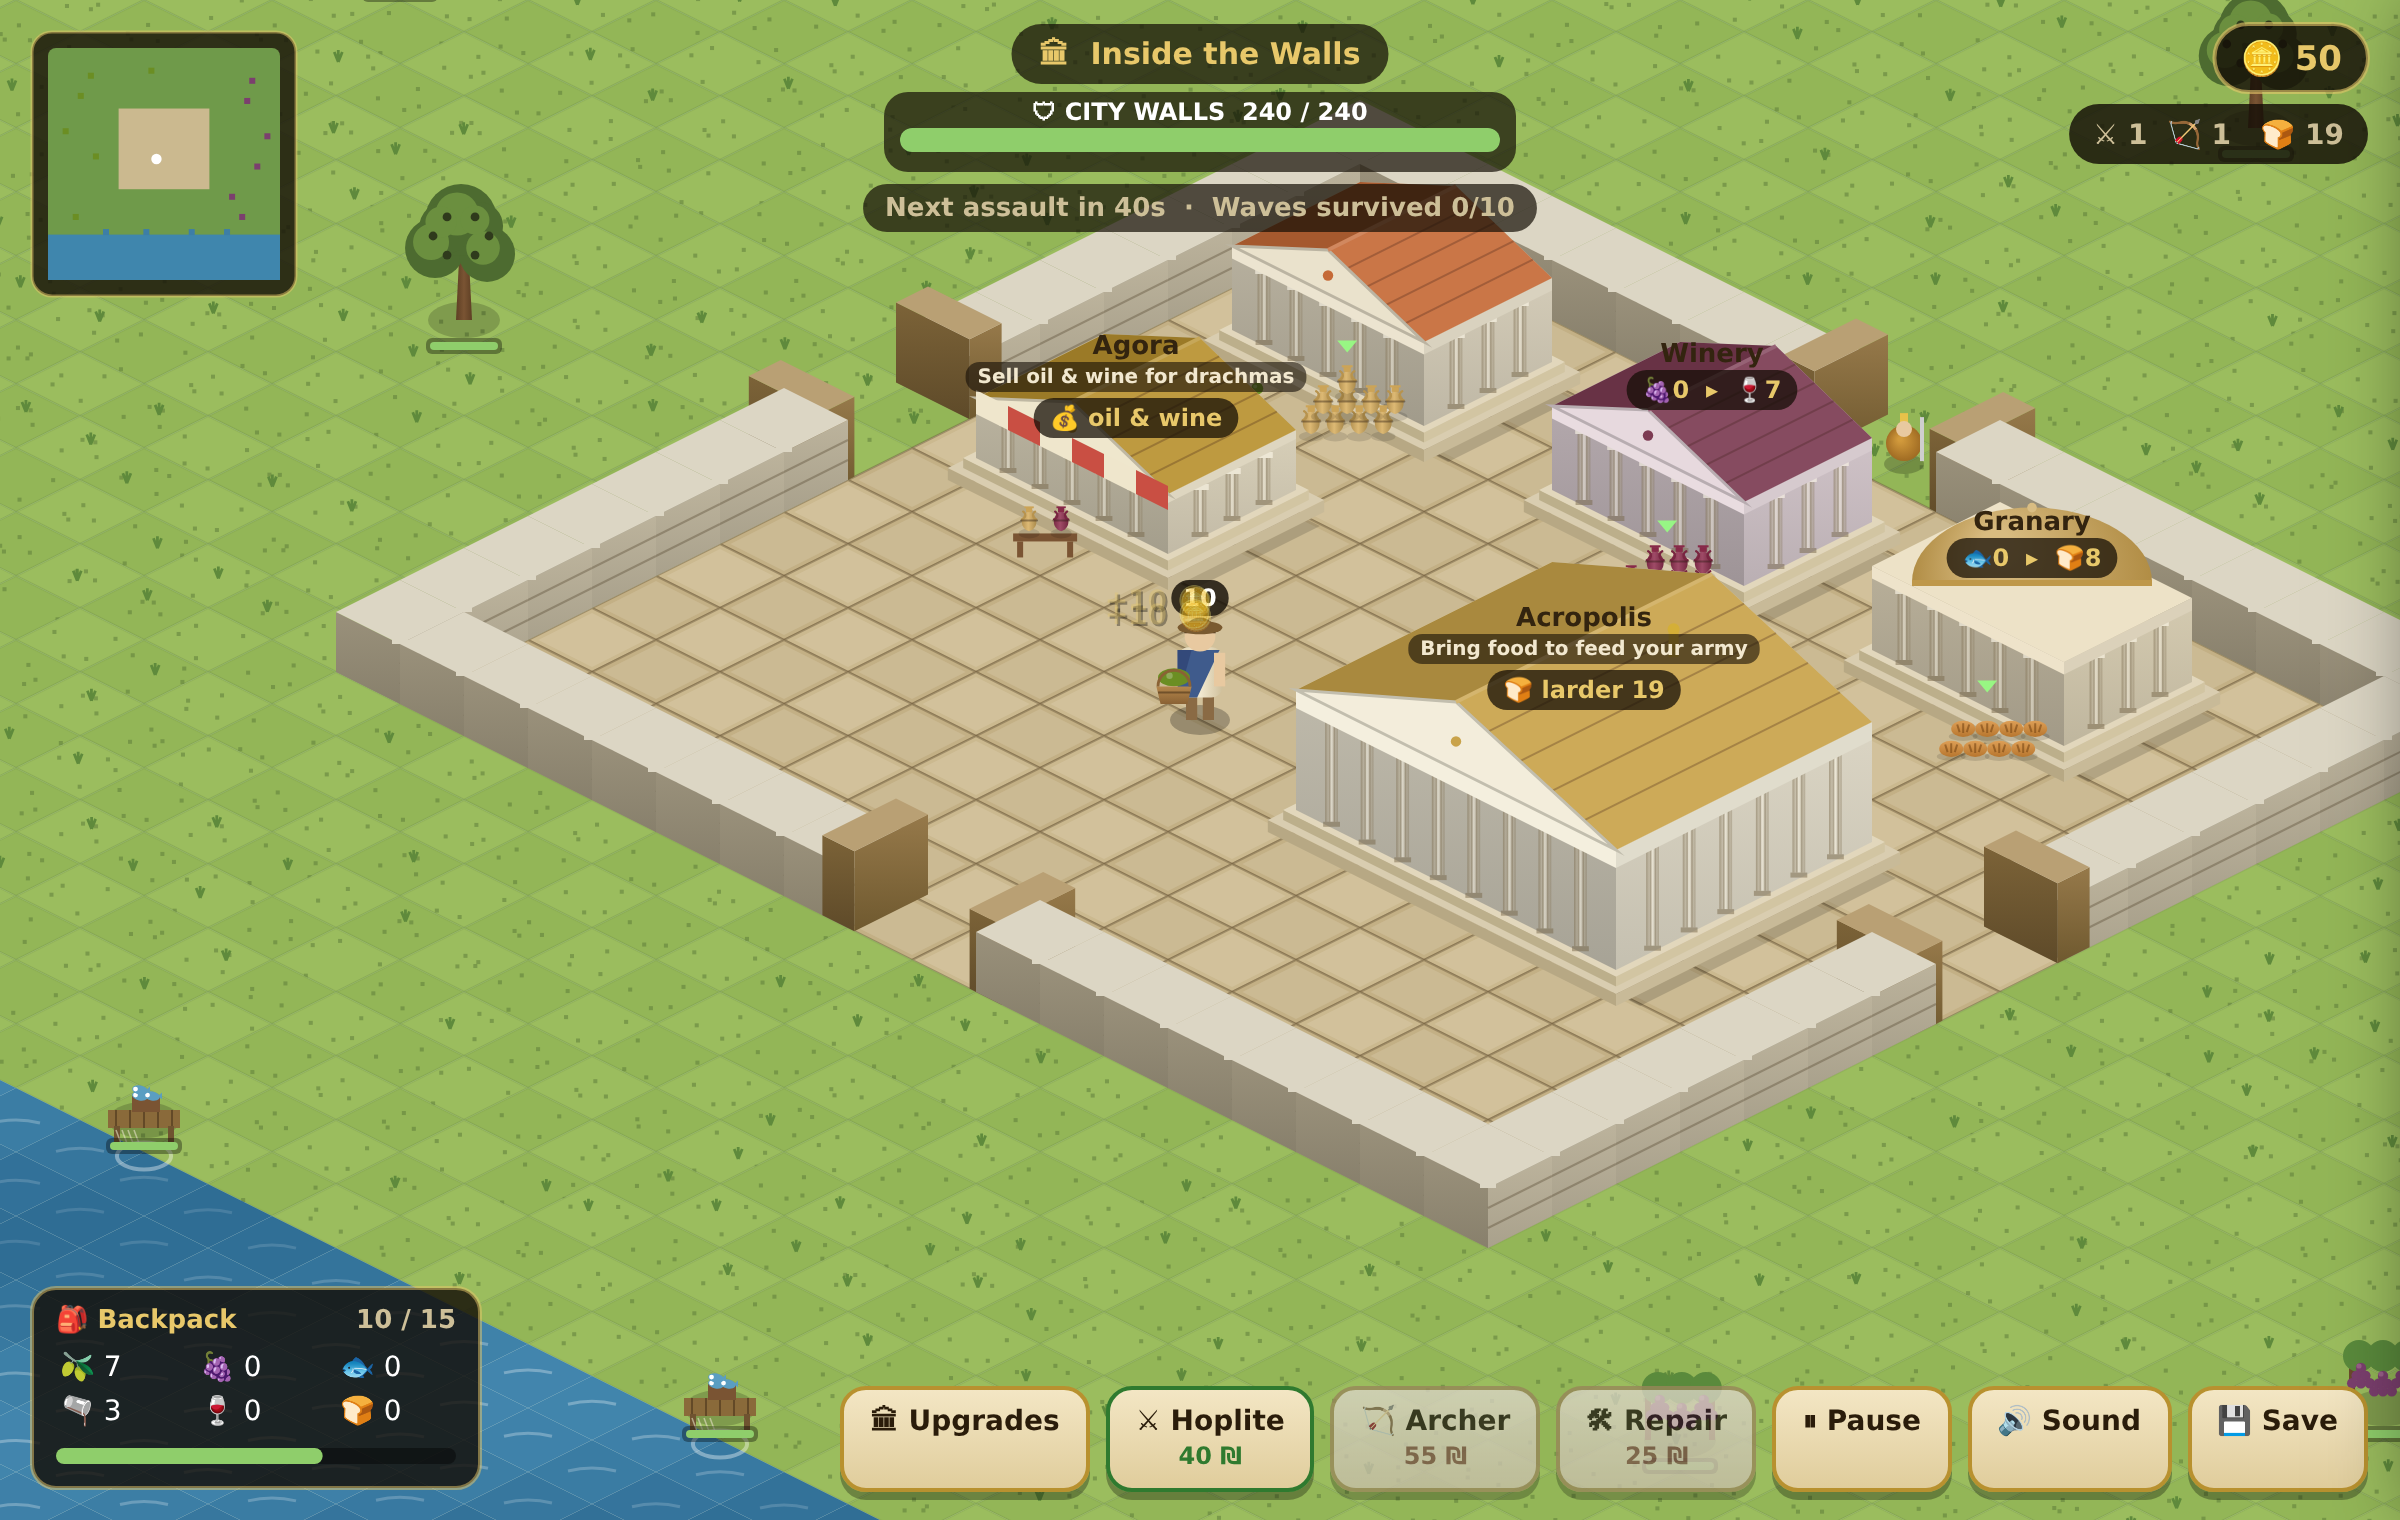
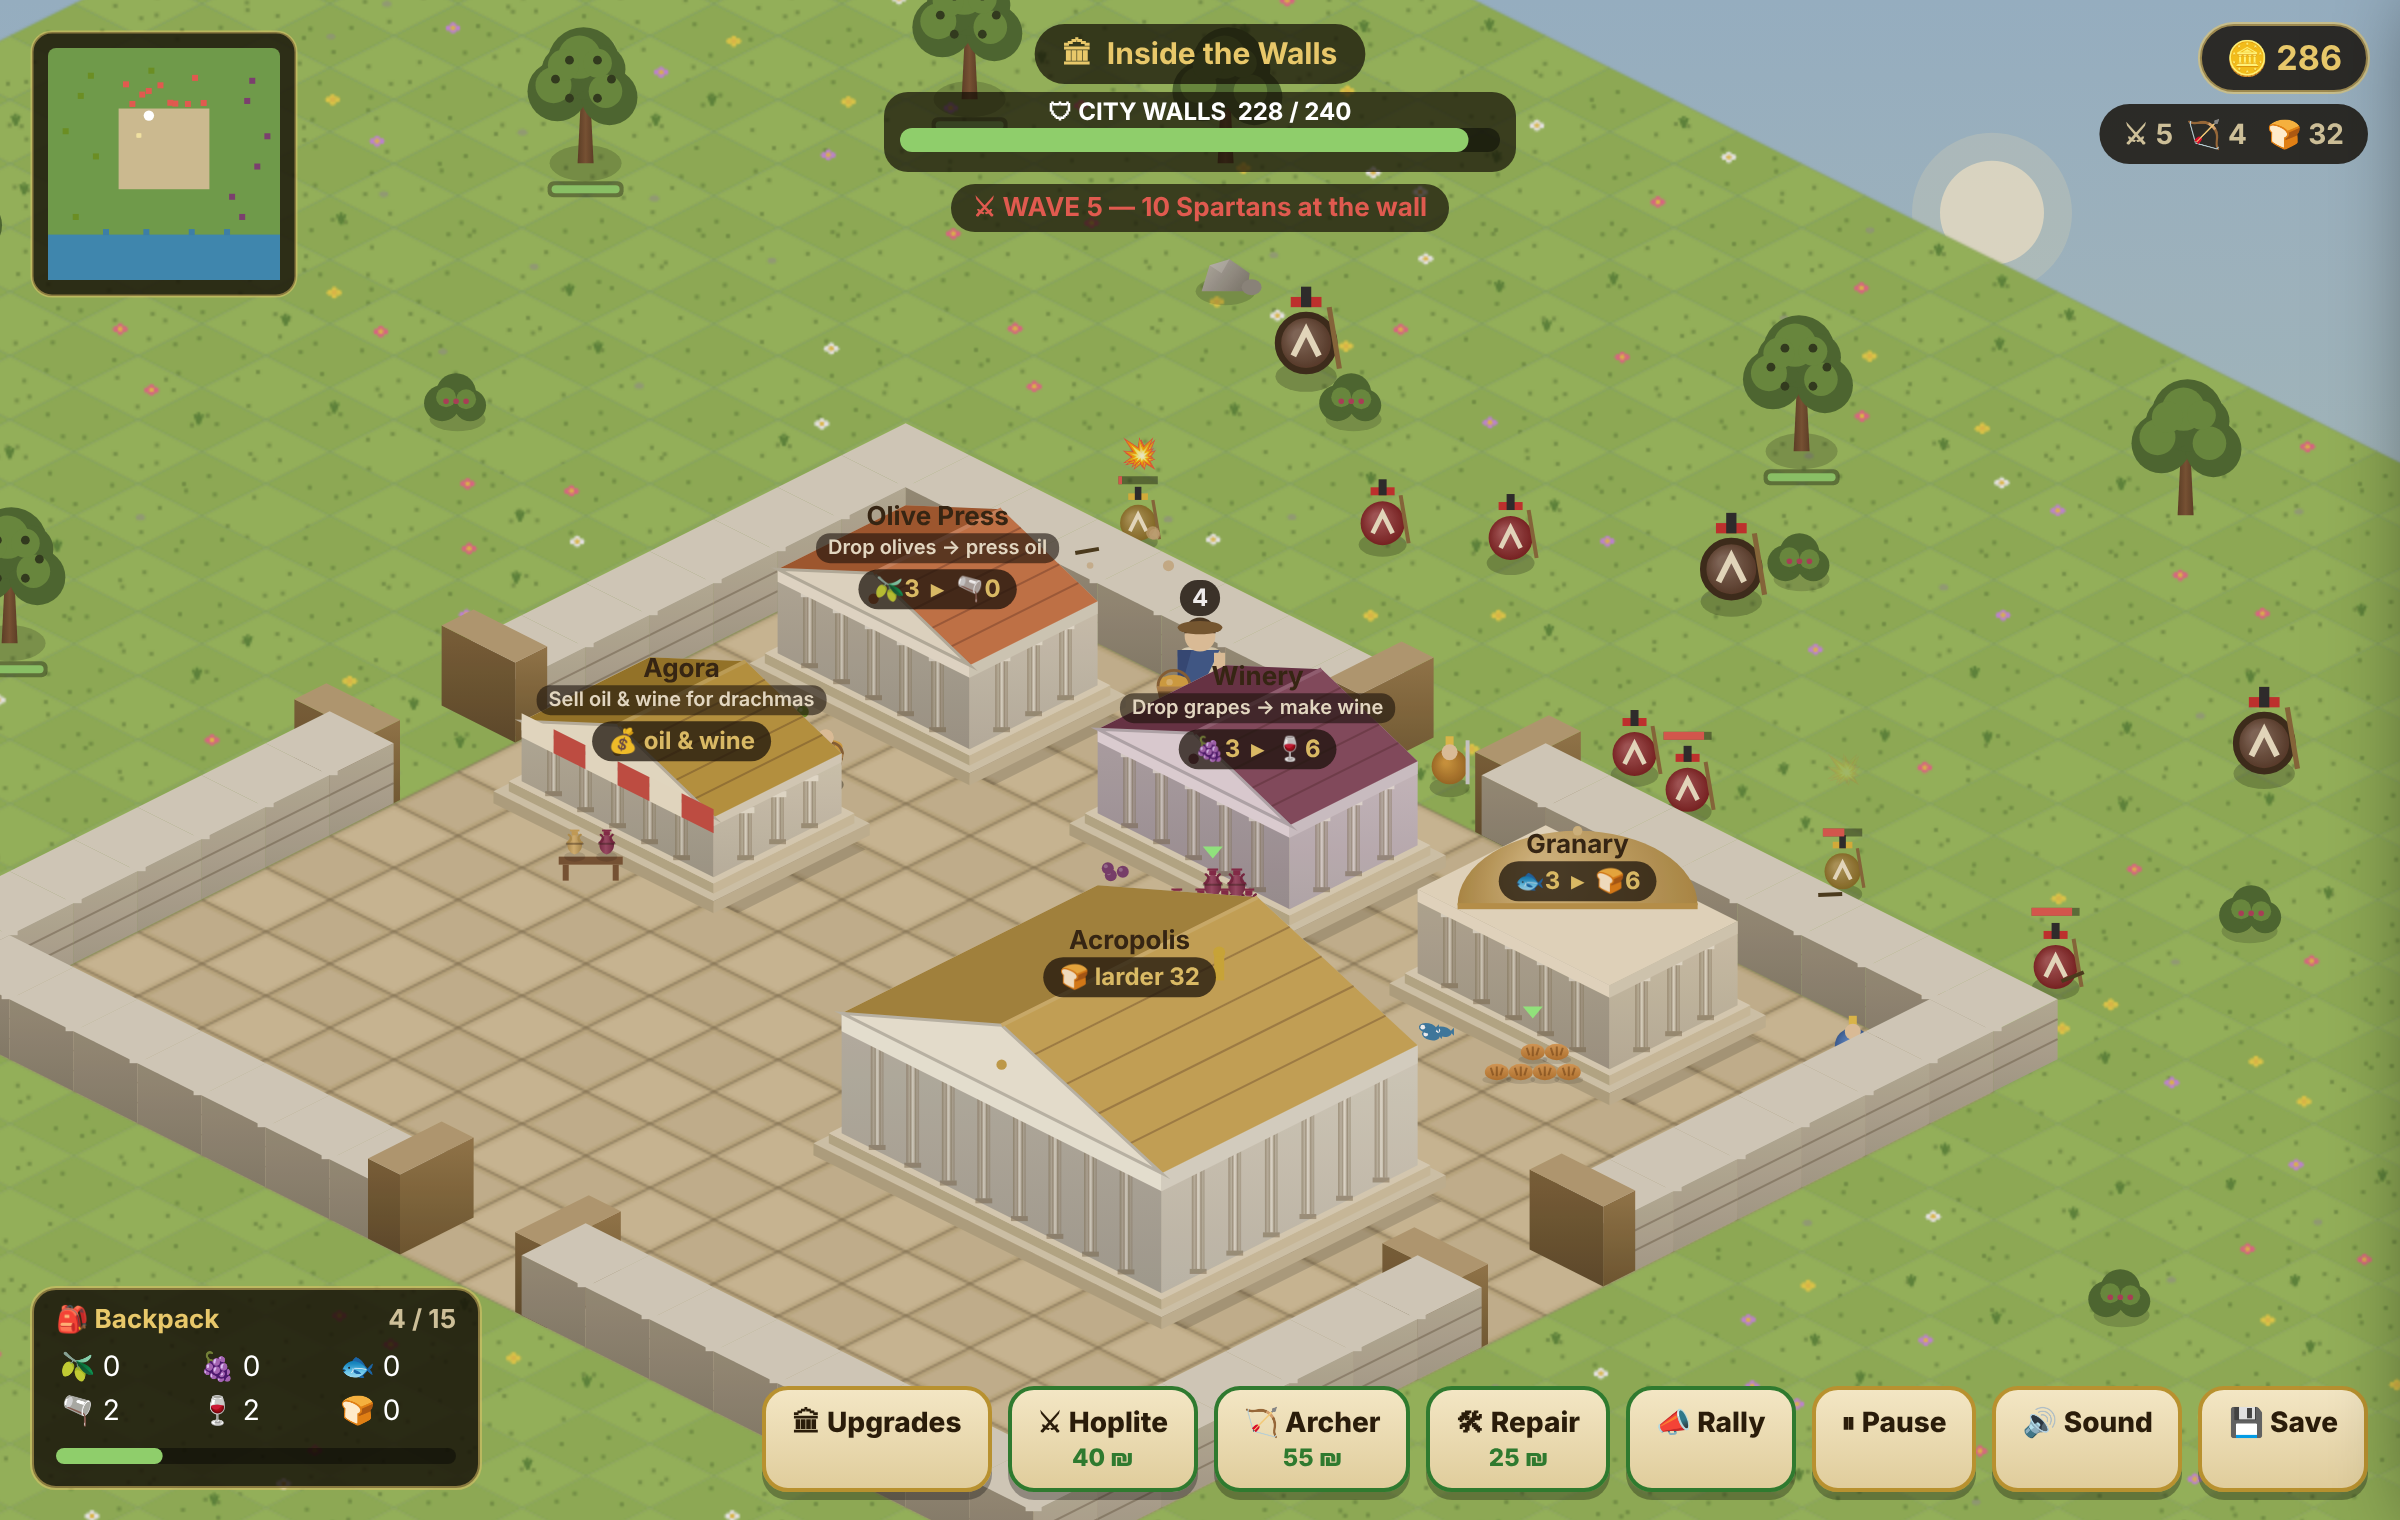
Refresh v2 hero shot and READMEs
New hero screenshot shows a wave-5 siege at moonrise: mixed warriors,
shield-bearers and skirmishers at the north wall, the Rally button in the
dock, and goods stacked at the workshops.

READMEs now describe the endless siege, enemy variety, Rally, tutorial and
day/night cycle; drop the stale 'win at 10 waves' and '(this build)' notes;
and list every v2 source file.

Claude-Session: https://claude.ai/code/session_01C2LEviXVLFJnPEgw4NXcjY

diff --git a/v2/README.md b/v2/README.md
@@ -1,6 +1,6 @@
 # Aegis of Athens — v2 (isometric, character-driven)
 
-![Aegis of Athens — isometric city of temples with resource stacks](hero.png)
+![Aegis of Athens — a wave-5 Spartan assault on the north wall at moonrise, with goods stacked at the workshops](hero.png)
 
 A ground-up reimagining of the game as a **third-person, character-driven**
 experience: you walk an Athenian around an isometric world, out through the
@@ -20,8 +20,10 @@ This is the **actively-developed** version; the original tap-to-gather game at
 4. Carry oil & wine to the **Agora** to sell for **drachmas**; bring food to the
    **Acropolis** to feed your army.
 5. Spend drachmas on **upgrades, porters and soldiers**.
-6. **Hold the walls** against escalating Spartan assaults — slain Spartans drop
-   **coins** you scoop up for more drachmas. Survive 10 waves to win.
+6. **Hold the walls** against escalating Spartan assaults — warriors,
+   shield-bearers and skirmishers. Sound the **Rally** war-cry, and scoop up
+   the **coins** slain Spartans drop. Wave 10 is a milestone; the siege is
+   endless, so chase your best score.
 
 The **gates** let you (and your porters) in and out on every side, but the
 Spartans can never pass them — they batter the walls from outside.
@@ -52,7 +54,7 @@ Spartans can never pass them — they batter the walls from outside.
   - **Sell** oil, wine & food at the **Agora** for **drachmas**, shown in a
     top-right coin purse with `+₪` floaters
   - Completes the full loop: gather → haul → process → haul → sell
-- **Phase 4 — Siege reworked ✅ (this build)**
+- **Phase 4 — Siege reworked ✅**
   - **Spartan waves** march from the north and batter the **city walls**
     (which have HP, damage tinting, and a HUD bar); a breach ends the game
   - Hire **hoplites ⚔ & archers 🏹** (bottom-right dock) who auto-defend the
@@ -62,9 +64,9 @@ Spartans can never pass them — they batter the walls from outside.
     city (dropping half your load)
   - **Food feeds the army** — deliver food to the Acropolis to stock the
     larder; an empty larder starves soldiers into deserting
-  - Escalating waves, drachma rewards per wave, and a **win at 10 waves**;
-    end-game modal with Play Again
-- **Phase 5 — Progression & polish ✅ (this build)**
+  - Escalating waves, drachma rewards per wave, and a milestone at wave 10
+    (the siege is now endless — see below); end-game modal with Play Again
+- **Phase 5 — Progression & polish ✅**
   - **Upgrade shop** (slide-in panel): bigger backpack, faster movement,
     faster workshops (press/winery/granary), and stronger city walls
   - **Porters — the idle layer**: hire *Gatherer* porters that auto-harvest
@@ -139,8 +141,10 @@ python3 -m http.server 8000   # from the repo root
 ```
 
 **Controls:** drag anywhere to walk (a joystick appears under your thumb), or
-use **W A S D** / arrow keys. Head south through the gate to reach the
-countryside.
+use **W A S D** / arrow keys. Walk out through any of the four gates to reach
+the countryside. The bottom dock hires soldiers, repairs the walls, sounds the
+**Rally**, opens **Upgrades**, and has **Pause**, **Sound** and **Save**.
+Progress autosaves to the browser.
 
 ## Files
 
@@ -148,11 +152,17 @@ countryside.
 v2/
   index.html        # full-viewport canvas
   style.css
+  hero.png          # README screenshot
   js/
-    config.js       # map layout, walls, gate, buildings, player tuning
+    config.js       # all tuning: map, walls & gates, buildings, nodes, economy,
+                    #   waves & enemy types, upgrades, porters
     world.js        # iso projection, camera, tile map, collision, draw helpers
     player.js       # character entity: movement, collision, facing
+    game.js         # simulation: gather/process/sell, siege & defenders,
+                    #   porters, upgrades, tutorial, save/load
     input.js        # virtual joystick + keyboard
-    render.js       # isometric renderer (depth-sorted, zero image assets)
-    main.js         # canvas sizing + game loop
+    render.js       # isometric renderer + HUD, day/night (zero image assets)
+    ui.js           # dock buttons, upgrade shop, toasts, end-game modal
+    sfx.js          # synthesised WebAudio sound effects
+    main.js         # canvas sizing, game loop, autosave
 ```

diff --git a/README.md b/README.md
@@ -16,11 +16,14 @@ browser, desktop or mobile.
 >   through any of the four **city gates** to gather, back to the workshops to
 >   process (goods **stack up** for collection), to the Agora to sell and the
 >   Acropolis to feed your army, then hire porters and soldiers and **hold the
->   walls** — slain Spartans drop coins to scoop up. Open `v2/` to play it.
+>   walls** against an **endless siege** of warriors, shield-bearers and
+>   skirmishers — sound the **Rally** war-cry and scoop up the coins slain
+>   Spartans drop. A guided tutorial, a day/night cycle, autosave and iPad
+>   multi-touch round it out. Open `v2/` to play it.
 > - **This page (`index.html`)** — the original **tap-to-gather** game (a fixed
 >   side-view board you tap to collect and defend), kept as a reference.
 >
-> ![Aegis of Athens v2 — isometric city of temples](v2/hero.png)
+> ![Aegis of Athens v2 — Spartans assault the north wall of an isometric Athens at moonrise](v2/hero.png)
 
 ## How to play
 
